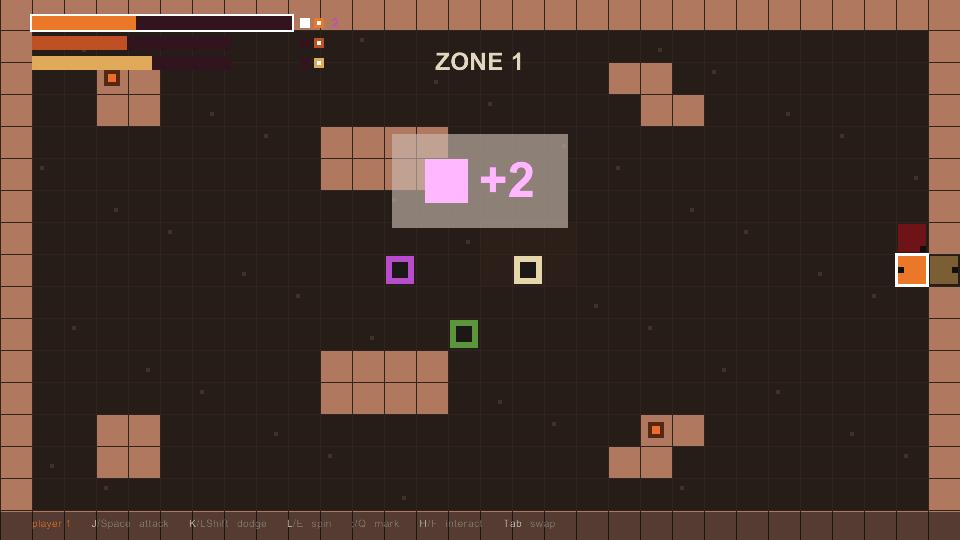
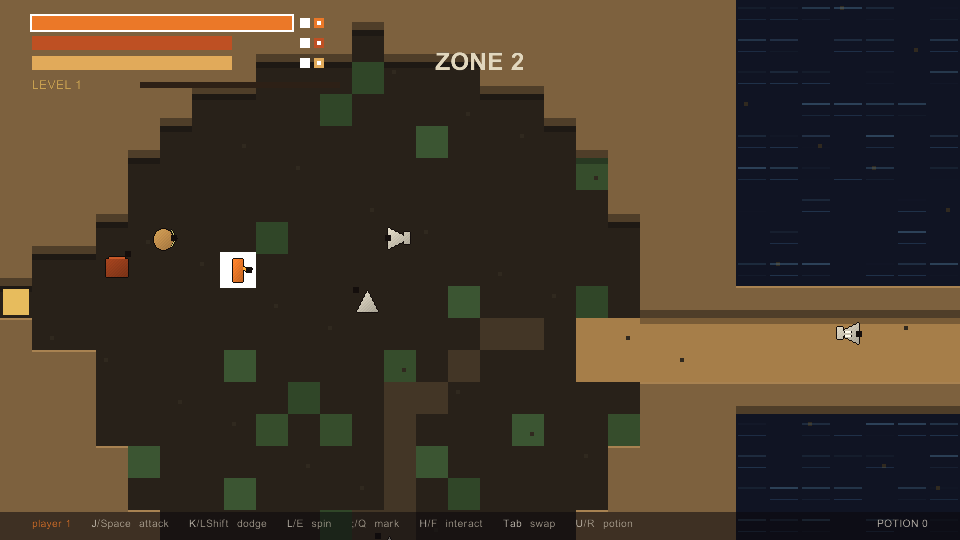
docs(readme): MUNDO VIVO v21 summary + new gameplay screenshot + god-view

diff --git a/README.md b/README.md
@@ -2,10 +2,21 @@
 
 A grid ARPG in Ruby + Gosu where you play a pack of three bodies
 (Tab swaps): hunt enemies through connected zones, bank the value you
-collect, pay tolls to open gates, and survive BOSS 1 — the one enemy
-that can seize your body back.
+collect, pay tolls to open gates, and descend — five dungeons deep, with
+a unique boss at the bottom of each — into a living underground.
 
-![ZONE 1 gameplay: three-body pack, HUD, stations, and post-fight tally](docs/assets/gameplay.png)
+![ZONE 2 gameplay: sprite pack, animated ambience, tile relief, HUD](docs/assets/gameplay.png)
+
+**v21 MUNDO VIVO (2026-09-05):** sprites with idle/walk/windup/hit
+animation (art is a replaceable atlas), living maps (water shimmer,
+bubbles, torches, sparks, spores, fog — all tick-driven), tiles with
+relief, six new enemy behaviors (fan of shots, petrify, blink, charge,
+beam, poison, aura), phased bosses, and the world graph: the DESCENT
+(ZONE 2 → 3 → 5 with BOSS 1 in the moss vault), the MEDUSA TOWER
+(DUNGEON 1 → 4, forced loops, BOSS 2 at the bottom) and BRASA (DUNGEON
+5 → 7, lava, BOSS 4 on the forge dais). Level cap 21.
+
+![God-view: every zone, 20 panels](docs/assets/godview.png)
 
 All player-visible names are deliberate placeholders (ZONE 1, HUB 1,
 BOSS 1, player 1…): this repo carries mechanics and engine only — no
